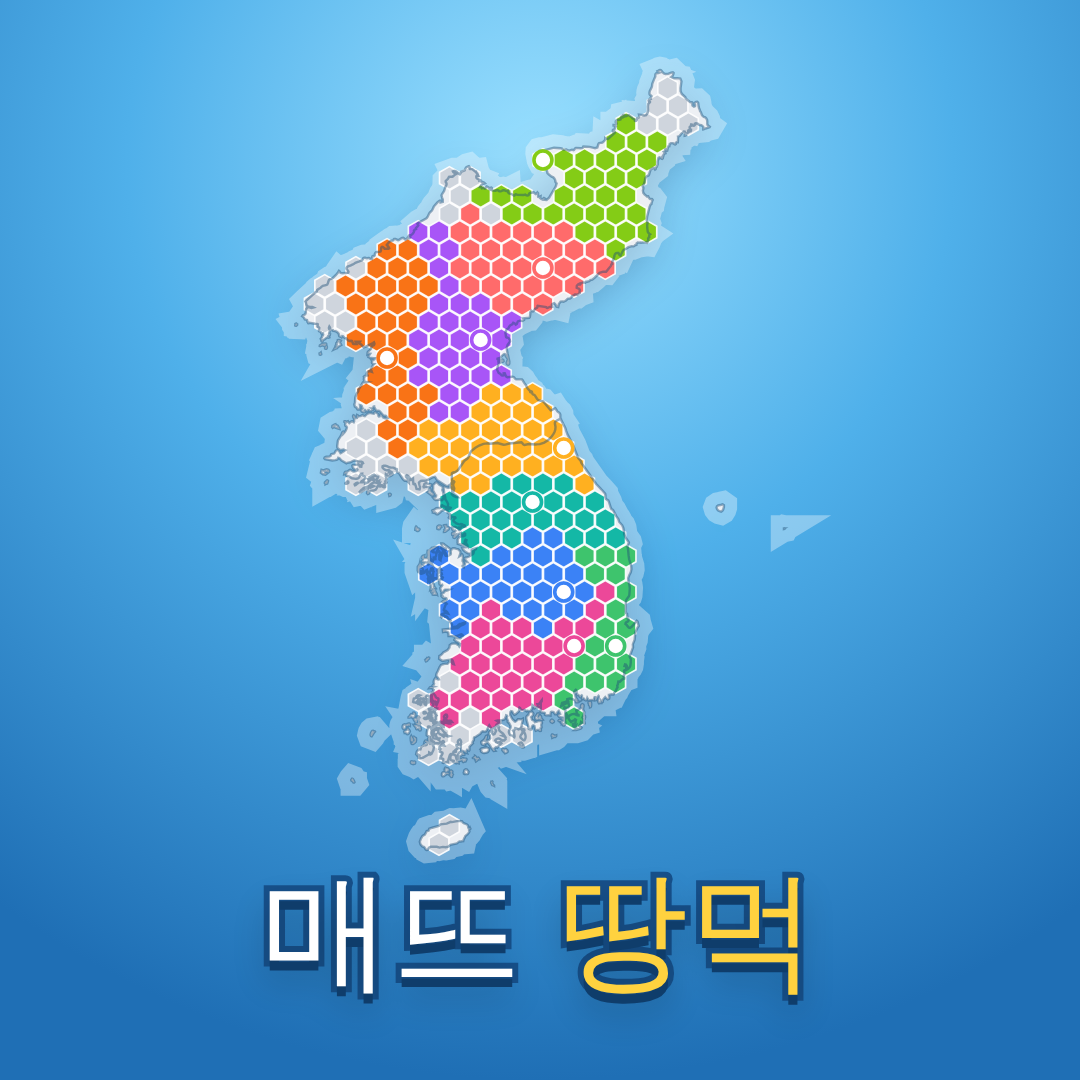
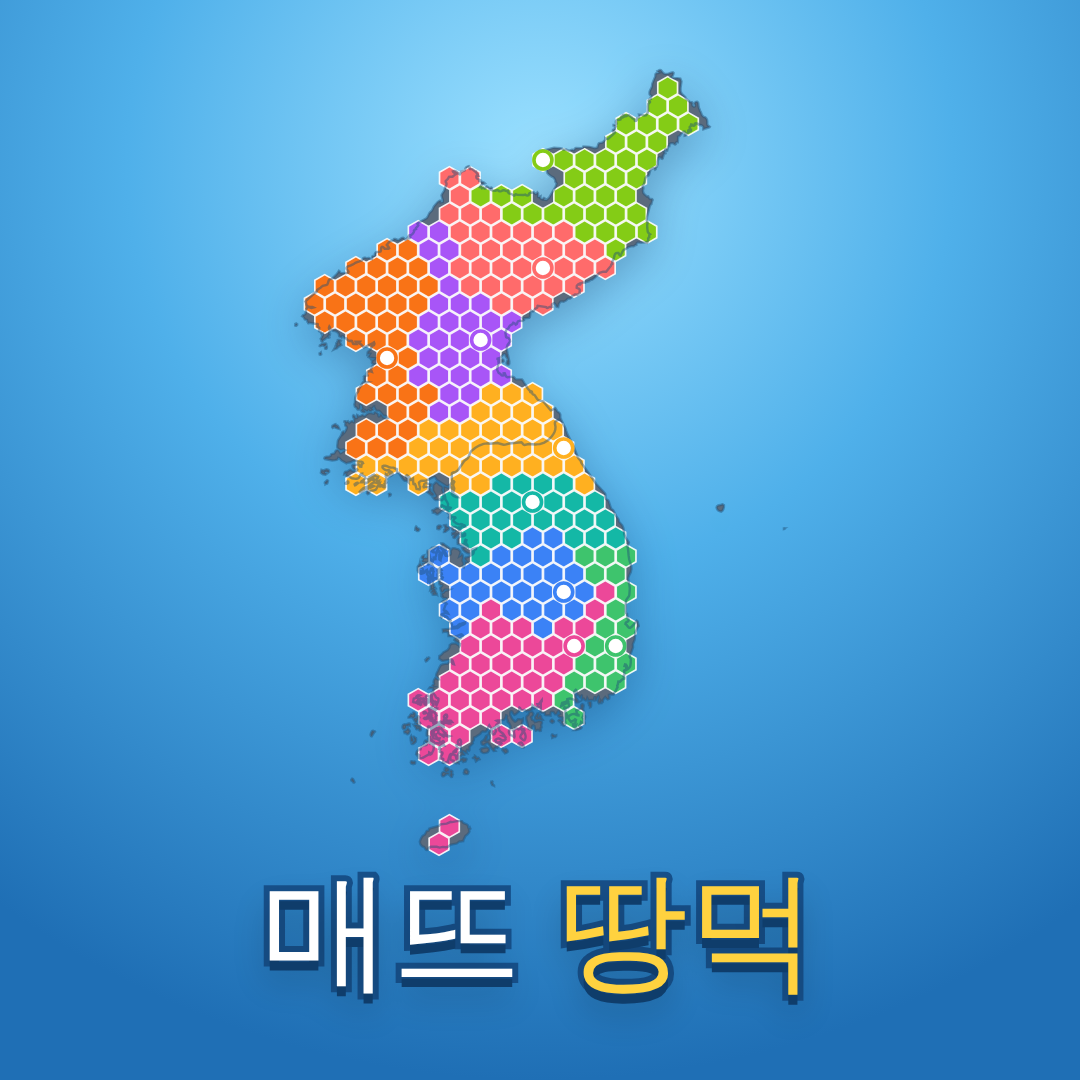
매뜨 땅먹: 프로필 이미지 한반도를 모두 알록달록하게, 반투명 하얀 테두리 없애기
Claude-Session: https://claude.ai/code/session_01TVqVSKLdJTQ5RtmiRTEj2t

diff --git a/math-land-eater/tools/make-branding.js b/math-land-eater/tools/make-branding.js
@@ -24,8 +24,7 @@ function drawScene(opts) {
   const sc = Math.min(map.w / (box[2] - box[0]), map.h / (box[3] - box[1])), ox = map.x + (map.w - (box[2] - box[0]) * sc) / 2 - box[0] * sc, oy = map.y + (map.h - (box[3] - box[1]) * sc) / 2 - box[1] * sc;
   const path = new Path2D();
   for (const r of land) { path.moveTo(r[0] * sc + ox, r[1] * sc + oy); for (let k = 2; k < r.length; k += 2) path.lineTo(r[k] * sc + ox, r[k + 1] * sc + oy); path.closePath(); }
-  g.save(); g.shadowColor = 'rgba(0,40,90,.35)'; g.shadowBlur = hexR * 4; g.shadowOffsetY = hexR * 1.2; g.fillStyle = '#e4e9ef'; g.fill(path); g.restore();
-  g.lineWidth = hexR * 2.2; g.strokeStyle = 'rgba(255,255,255,.35)'; g.stroke(path);
+  g.save(); g.shadowColor = 'rgba(0,40,90,.35)'; g.shadowBlur = hexR * 4; g.shadowOffsetY = hexR * 1.2; g.fillStyle = '#5b6b7d'; g.fill(path); g.restore(); // 반투명 하얀 테두리 없이
   const R = hexR, dx = Math.sqrt(3) * R, dy = 1.5 * R, hx = [], at = new Map();
   for (let row = 0, y = map.y; y < map.y + map.h + R; row++, y += dy) for (let col = 0, x = map.x + (row % 2 ? dx / 2 : 0); x < map.x + map.w + R; col++, x += dx) if (g.isPointInPath(path, x, y)) { at.set(row + ',' + col, hx.length); hx.push({ x, y, row, col, nb: [] }); }
   const odd = [[0, -1], [0, 1], [-1, 0], [-1, 1], [1, 0], [1, 1]], even = [[0, -1], [0, 1], [-1, -1], [-1, 0], [1, -1], [1, 0]];
@@ -33,8 +32,10 @@ function drawScene(opts) {
   const COLORS = ['#ff6b6b', '#ffb020', '#3ec46d', '#3b82f6', '#a855f7', '#ec4899', '#14b8a6', '#f97316', '#84cc16', '#6366f1'];
   const owner = new Int8Array(hx.length).fill(-1), fronts = [], seeds = [];
   for (let i = 0; i < 9; i++) { const k = Math.floor(rnd() * hx.length); if (owner[k] < 0) { owner[k] = i; fronts.push([k]); seeds.push(k); } }
-  const fill = opts.fill || 0.82; let taken = seeds.length;
+  const fill = 1; let taken = seeds.length;
   while (taken < hx.length * fill) { let any = false; fronts.forEach((f, s) => { for (let t = 0; t < 6 && f.length; t++) { const i = Math.floor(rnd() * f.length), free = hx[f[i]].nb.filter(j => owner[j] < 0); if (!free.length) { f.splice(i, 1); continue; } const j = free[Math.floor(rnd() * free.length)]; owner[j] = s; f.push(j); taken++; any = true; break; } }); if (!any) break; }
+  // 섬처럼 이어지지 않은 칸까지 모두 가장 가까운 학교 색으로 (알록달록하게)
+  for (let i = 0; i < hx.length; i++) if (owner[i] < 0) { let best = 0, bd = Infinity; seeds.forEach((k, s) => { const d = (hx[k].x - hx[i].x) ** 2 + (hx[k].y - hx[i].y) ** 2; if (d < bd) { bd = d; best = s; } }); owner[i] = best; }
   for (let i = 0; i < hx.length; i++) {
     const q = hx[i]; g.beginPath(); for (let k = 0; k < 6; k++) { const a = Math.PI / 6 + k * Math.PI / 3; g.lineTo(q.x + R * 0.95 * Math.cos(a), q.y + R * 0.95 * Math.sin(a)); } g.closePath();
     g.fillStyle = owner[i] >= 0 ? COLORS[owner[i] % COLORS.length] : '#cfd5dd'; g.fill(); g.lineWidth = Math.max(1, R * 0.14); g.strokeStyle = 'rgba(255,255,255,.9)'; g.stroke();
@@ -57,7 +58,7 @@ function drawScene(opts) {
   };
   // 1) 프로필 사진 A: 글자 (원으로 잘려도 잘 보이게 가운데에 크게)
   await make('profile-logo.png', 1080, 1080, `<div class="t" style="left:0;right:0;top:215px;font-size:300px;line-height:1.02;--sw:22px">매뜨<br><span class="y">땅먹</span></div>`,
-    { map: { x: 90, y: 90, w: 900, h: 900 }, hexR: 15, seed: 7, bg: [0.5, 0.2], fill: 0.85, wash: 0.45 });
+    { map: { x: 90, y: 90, w: 900, h: 900 }, hexR: 15, seed: 7, bg: [0.5, 0.2] });
   // 2) 프로필 사진 B: 육각형 한반도 지도 + 작은 로고
   await make('profile-map.png', 1080, 1080, `<div class="t" style="left:0;right:0;bottom:60px;font-size:130px;--sw:12px">매뜨 <span class="y">땅먹</span></div>`,
     { map: { x: 200, y: 70, w: 680, h: 780 }, hexR: 12, seed: 3, bg: [0.5, 0.15], fill: 0.86 });
